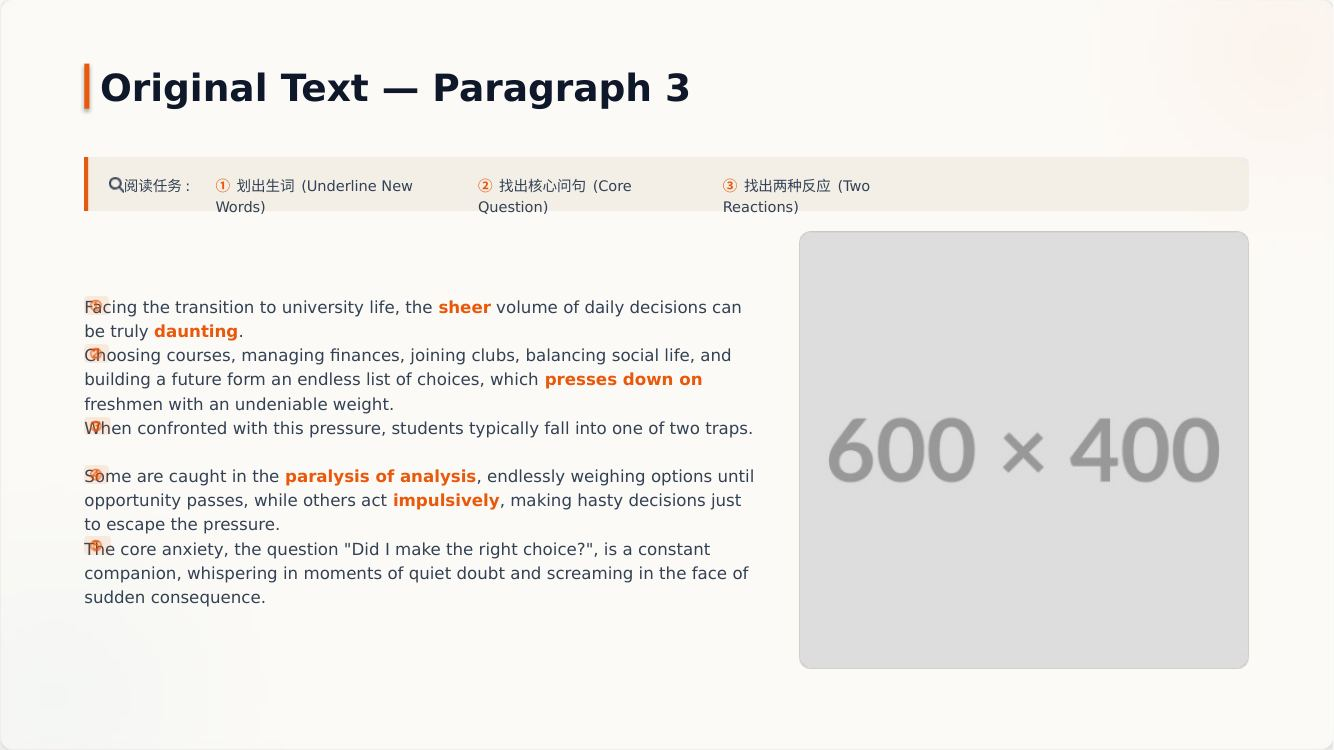
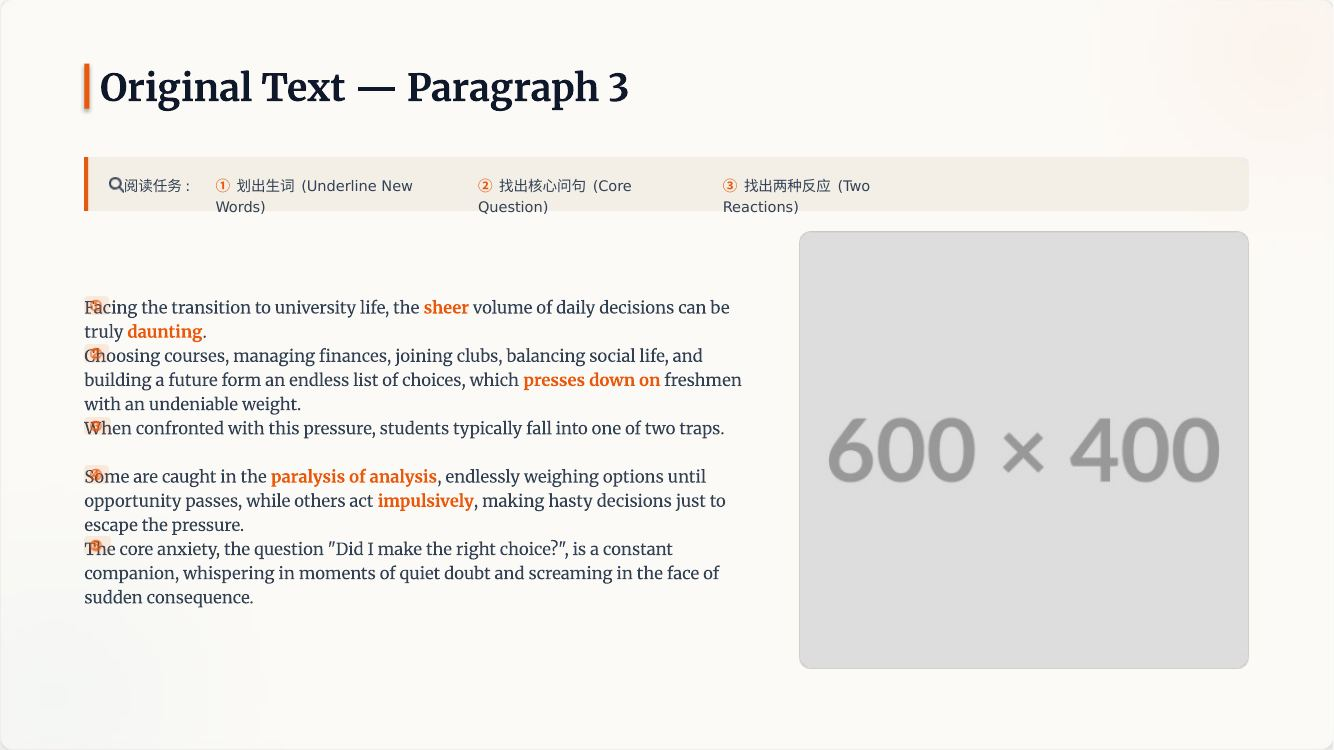
PPT关校验修复：补字体重渲染问题成品、消除硬编码文案、查看器边界加固
多代理校验（88 张成品页逐页目检 + 文案/代码复查）后的修复：
- 安装 Carlito/Caladea/Merriweather/Plus Jakarta Sans/Tomorrow/Noto Emoji
  后重渲染 gamma/gemini/manus/qianwen/lingxi 五套成品——gemini 此前的
  多页叠字/裁切系字体缺失的转换伪影，现已还原真实设计；manus 第 7 页
  等残余叠字为文件自身固定几何（spAutoFit），属真实导出质量，保留
- 擂台「成品↓」徽标与「直接可用」判断改走 copy 键（铁律1：不硬编码中文）
- 聊天成品卡标题映射加兜底；SlideViewer 复用公共 interpolate、
  缩略图条改内层 w-max+mx-auto（修复 justify-center 溢出不可滚）、
  空页数防御
- 文案：豆包注释改为如实描述占位符残留；senpai-tip-2 不再暗示
  "稍后看成品"；大纲文档"句号"笔误改"句子编号"；Gemini 注释更新

Claude-Session: https://claude.ai/code/session_01YVsrZbedsbBzpTaKHDKej7

Changed region(s): [[0.0615, 0.6133, 0.5532, 0.828], [0.0615, 0.3987, 0.5532, 0.5827], [0.0615, 0.092, 0.5225, 0.1533]]

diff --git a/src/levels/ppt/SlideViewer.tsx b/src/levels/ppt/SlideViewer.tsx
@@ -4,17 +4,12 @@
  */
 import React, { useCallback, useEffect, useState } from 'react';
 import { createPortal } from 'react-dom';
+import { interpolate } from '@/engine/content';
 
 export interface SlideViewerLabels {
   close: string;
   counter: string; // 形如 "{n} / {total}"
   hint: string;
-}
-
-function interp(tmpl: string, vars: Record<string, string | number>): string {
-  return tmpl.replace(/\{(\w+)\}/g, (raw, k: string) =>
-    vars[k] === undefined ? raw : String(vars[k]),
-  );
 }
 
 export const SlideViewer: React.FC<{
@@ -27,7 +22,7 @@ export const SlideViewer: React.FC<{
   const [n, setN] = useState(0);
 
   const step = useCallback(
-    (d: number) => setN((v) => Math.min(pages.length - 1, Math.max(0, v + d))),
+    (d: number) => setN((v) => Math.min(Math.max(pages.length - 1, 0), Math.max(0, v + d))),
     [pages.length],
   );
 
@@ -58,7 +53,7 @@ export const SlideViewer: React.FC<{
             {note && <p className="truncate text-[11px] text-ink-soft">{note}</p>}
           </div>
           <span className="rounded bg-accent-soft px-2 py-0.5 text-[12px] font-medium tabular-nums text-accent">
-            {interp(labels.counter, { n: n + 1, total: pages.length })}
+            {interpolate(labels.counter, { n: n + 1, total: pages.length })}
           </span>
           <button
             onClick={onClose}
@@ -95,7 +90,9 @@ export const SlideViewer: React.FC<{
 
         {/* 底部：缩略图条 + 提示 */}
         <footer className="border-t border-line bg-paper/60 px-4 py-2.5">
-          <div className="flex items-center justify-center gap-1.5 overflow-x-auto">
+          {/* 内层 w-max + mx-auto：能放下时居中，放不下时可从头横向滚动（justify-center 会把首张推出可滚区） */}
+          <div className="overflow-x-auto">
+            <div className="mx-auto flex w-max items-center gap-1.5">
             {pages.map((p, i) => (
               <button
                 key={i}
@@ -107,6 +104,7 @@ export const SlideViewer: React.FC<{
                 <img src={p} alt="" loading="lazy" className="h-full w-auto" />
               </button>
             ))}
+            </div>
           </div>
           <p className="mt-1.5 text-center text-[11px] text-ink-soft">{labels.hint}</p>
         </footer>

diff --git a/src/levels/ppt/index.tsx b/src/levels/ppt/index.tsx
@@ -180,7 +180,12 @@ const TwoRoadsChat: React.FC<{ api: FlowAPI; assets: Record<string, string> }> =
     if (streamCount >= full.length) {
       setMsgs((m) => {
         const done: Msg[] = m.map((msg) => (msg.kind === 'ai' ? { ...msg, done: true } : msg));
-        if (step.deck) done.push({ kind: 'deck', id: step.deck, titleKey: DECK_CHAT_TITLE[step.deck] });
+        if (step.deck)
+          done.push({
+            kind: 'deck',
+            id: step.deck,
+            titleKey: DECK_CHAT_TITLE[step.deck] ?? `deck-${step.deck}-name`,
+          });
         if (step.doc) done.push({ kind: 'doc' });
         return done;
       });
@@ -346,7 +351,7 @@ const TwoRoadsChat: React.FC<{ api: FlowAPI; assets: Record<string, string> }> =
 
       {viewer && (
         <SlideViewer
-          title={api.copy(DECK_CHAT_TITLE[viewer])}
+          title={api.copy(DECK_CHAT_TITLE[viewer] ?? `deck-${viewer}-name`)}
           pages={deckPages(assets, viewer)}
           labels={viewerLabels(api)}
           onClose={() => setViewer(null)}
@@ -417,7 +422,7 @@ const Arena: React.FC<{ api: FlowAPI; assets: Record<string, string> }> = ({ api
                   {t.name}
                   {hasDeck(t.name) && (
                     <span className="ml-1.5 rounded bg-accent-soft px-1 py-0.5 text-[10px] font-normal text-accent">
-                      成品↓
+                      {api.copy('deck-badge')}
                     </span>
                   )}
                 </td>
@@ -425,7 +430,7 @@ const Arena: React.FC<{ api: FlowAPI; assets: Record<string, string> }> = ({ api
                 <td className="px-3 py-2">{t.pro}</td>
                 <td className="px-3 py-2 text-ink-soft">{t.con}</td>
                 <td className="whitespace-nowrap px-2 py-2">
-                  <span className={t.net === '直接可用' ? 'text-accent' : 'text-ink-soft'}>
+                  <span className={t.net === api.copy('net-ok-label') ? 'text-accent' : 'text-ink-soft'}>
                     {t.net}
                   </span>
                 </td>
